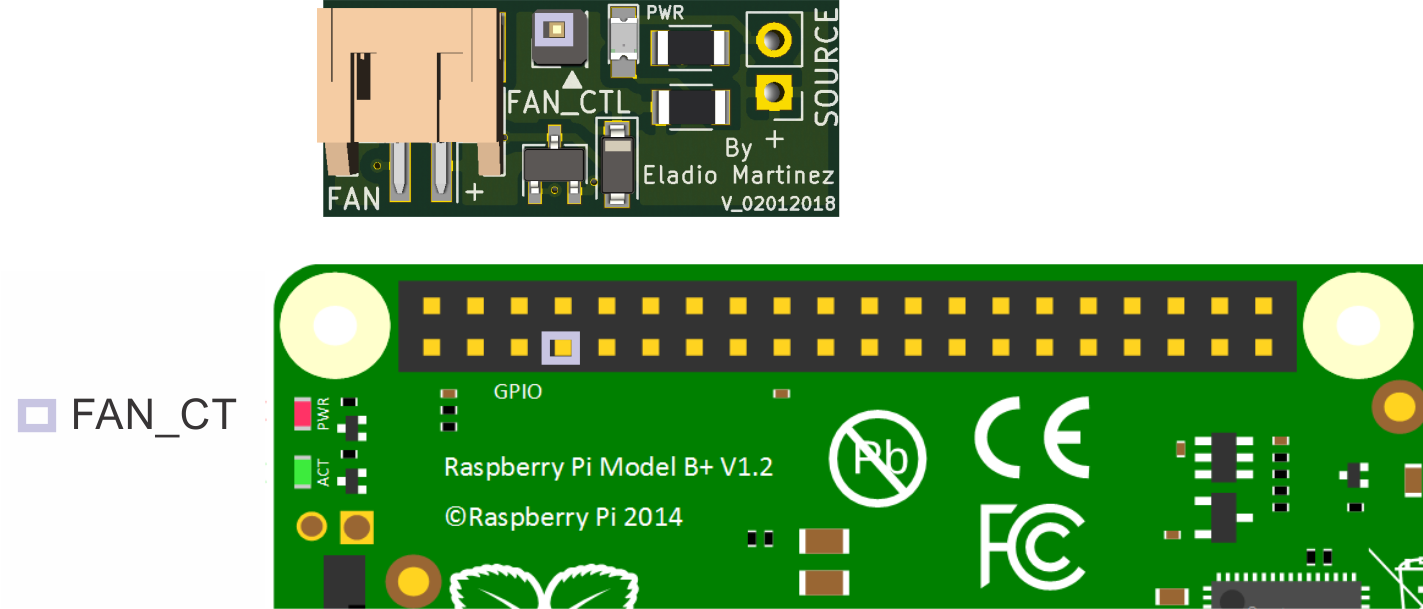
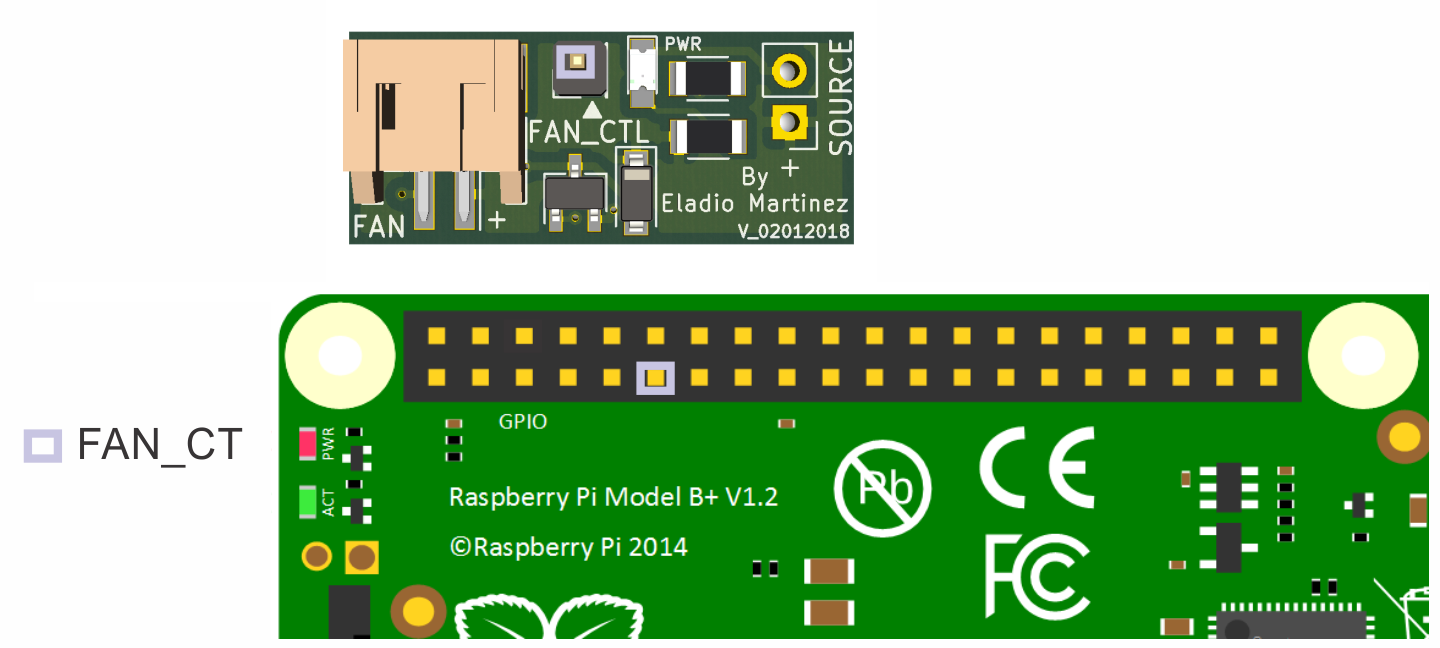
Add compatibility with NESPi Case +

Changed region(s): [[0.0, 0.0, 1.0, 1.0], [0.6803, 0.6552, 0.773, 0.78], [0.3092, 0.8112, 0.4947, 0.8736]]

diff --git a/README.md b/README.md
@@ -55,7 +55,7 @@ Hardware Installation
 ---------------------
 It's very important to follow the right pin configuration to prevent damage to your Pi.
 
-  * `FAN_CT Pin` - Connect to GPIO 4 (RPI pin 7)
+  * `FAN_CT Pin` - Connect to GPIO 17 (RPI pin 11)
   * `SOURCE Pin` - Connect to the built-in fan connector (follow polarity markings)
   
 ![Pin Connection](pictures/nespicase_fan_ctrl_connection.png)
